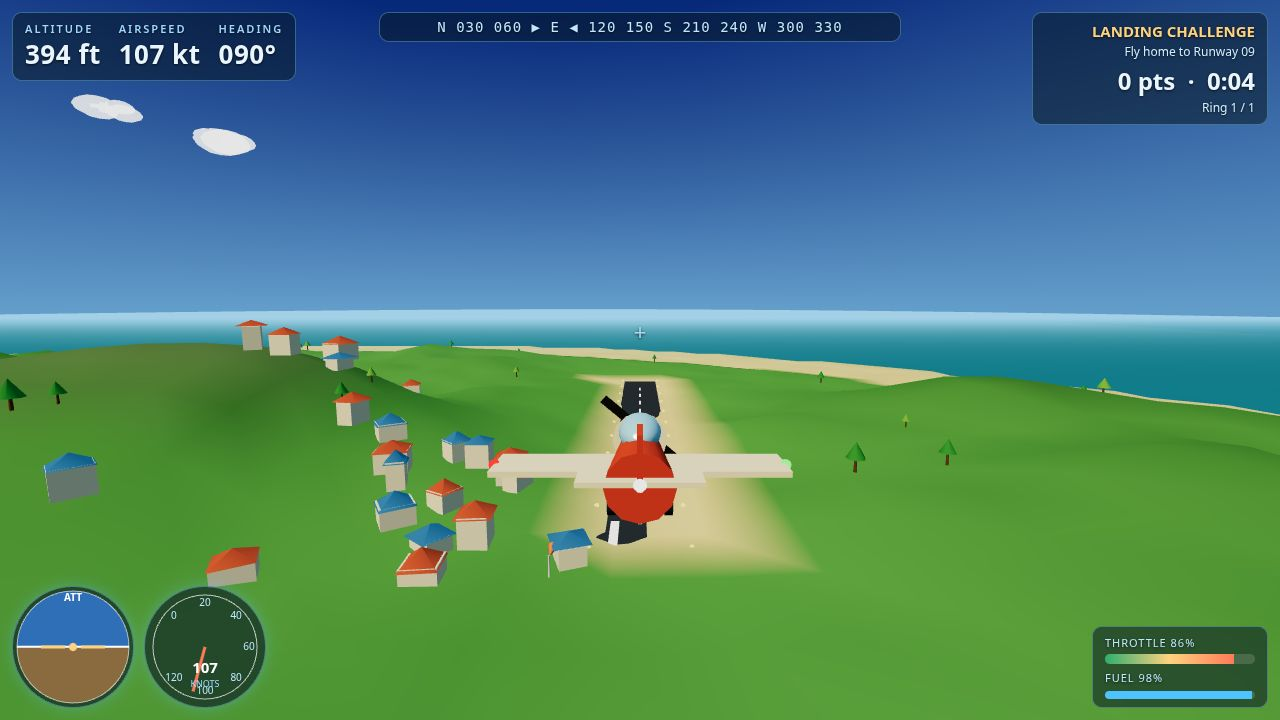
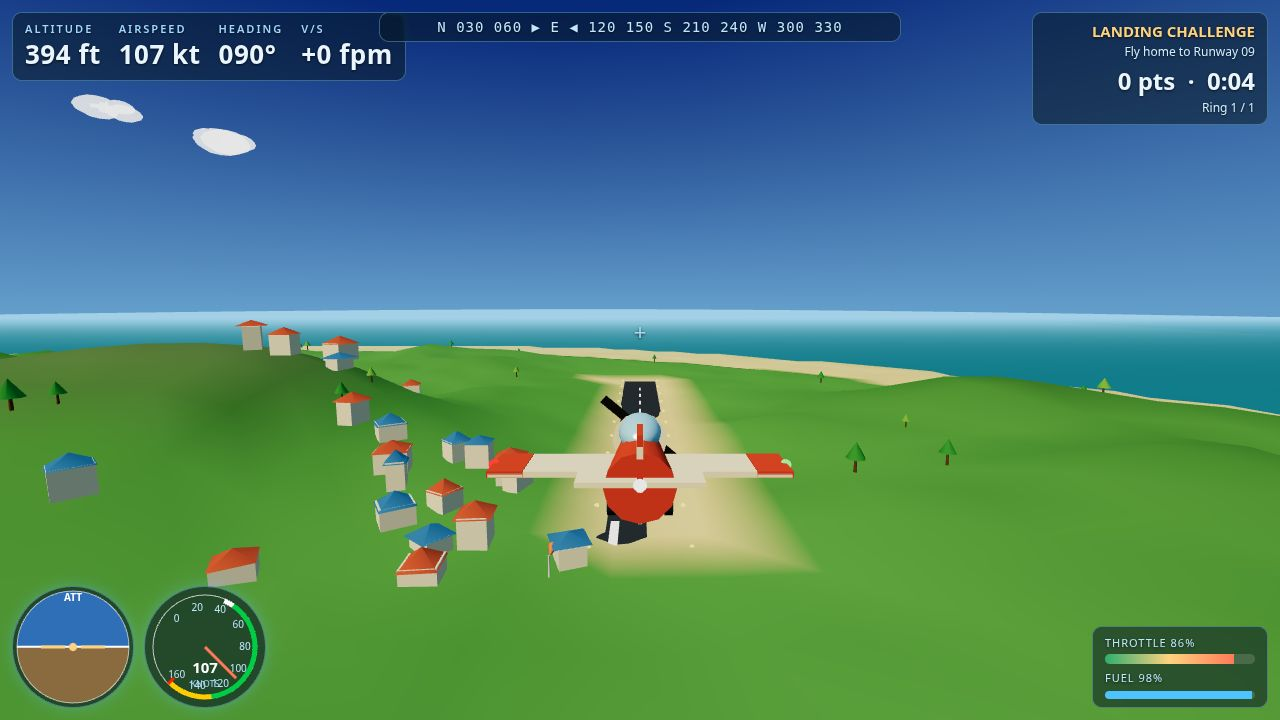
v3.1: pro-skill pass — instrument lag layer, tower camera, flap stall, hero paint, harbour boats
Instruments (aircraft-instruments skill): no display reads raw physics any
more. ASI lag 0.15 s, altimeter 1.5 s, attitude gyro 0.15 s, and a new V/S
readout driven by a 7 s-lag VSI pegged at +/-2000 fpm. The airspeed dial is
now a real ASI: 0-160 kt with white (flap range 40-85), green (normal
47-129) and yellow (caution 129-160) arcs and a red line at Vne. Staged
screenshots snap the instruments to the truth first, so the lag never
shows stale numbers in a still.

Flight model (flight-simulator skill): flaps now lower the stall speed
about 15% (24 -> ~20.4 m/s), the CLflap effect, so a slow final approach
with flaps down stays flying where the clean wing stalls. Verified: at
22 m/s the clean wing stalls, flaps down it does not.

Camera: a third view, Tower — fixed at the airfield, tracking the plane.
C cycles chase -> cockpit -> tower.

Hero + world (threejs-aaa-graphics-builder): red wingtip caps and a fin
stripe, so the Kitefin-9 reads as a painted aircraft from the chase view;
three sailboats anchored off the harbour on measured open-sea spots
(groundHeight -6), floating on the sea disc.

Retested: rally 8/8 (2810), tour 5/5 (2039), scripted touchdown wins
(1360), tower view verified in a live frame, VSI climbs from +0 to the
+2000 peg with the 7 s lag, 0 console/page/network errors.

diff --git a/game/src/hud.js b/game/src/hud.js
@@ -7,6 +7,7 @@ export function createHud() {
   const alt = document.getElementById('alt');
   const spd = document.getElementById('spd');
   const hdg = document.getElementById('hdg');
+  const vsiEl = document.getElementById('vsi');
   const warn = document.getElementById('warn');
   const strip = document.getElementById('compassStrip');
   const missionTitle = document.getElementById('missionTitle');
@@ -30,14 +31,25 @@ export function createHud() {
     if (message !== lastAnnounce) { lastAnnounce = message; status.textContent = message; }
   }
 
-  function drawAttitude(state) {
+  // Instrument layer: no display ever reads the physics state raw. Each
+  // gauge is a first-order lag filter over the true value, the way a real
+  // pitot-static or gyro instrument behaves — ASI is quick (0.15 s), the
+  // altimeter slow (1.5 s), the VSI the slowest of all (7 s), and the
+  // attitude ball follows the gyro with a short lag. Deterministic: the
+  // filter is a pure function of value and dt, no noise, so the staged
+  // screenshots stay reproducible.
+  const lag = (current, target, tau, dt) => current + (target - current) * (1 - Math.exp(-dt / tau));
+  let indAlt = 0; let indSpd = 0; let indPitch = 0; let indRoll = 0; let indVs = 0;
+  let prevAlt = null;
+
+  function drawAttitude(pitch, bank) {
     const w = 120; const h = 120; const cx = 60; const cy = 60;
     attCtx.clearRect(0, 0, w, h);
     attCtx.save();
     attCtx.beginPath(); attCtx.arc(cx, cy, 56, 0, Math.PI * 2); attCtx.clip();
     attCtx.translate(cx, cy);
-    attCtx.rotate(-state.bank);
-    attCtx.translate(0, state.pitch * 90);
+    attCtx.rotate(-bank);
+    attCtx.translate(0, pitch * 90);
     attCtx.fillStyle = '#2f6fb8'; attCtx.fillRect(-70, -90, 140, 90);
     attCtx.fillStyle = '#8a6a3f'; attCtx.fillRect(-70, 0, 140, 90);
     attCtx.strokeStyle = '#fff'; attCtx.lineWidth = 2;
@@ -54,22 +66,41 @@ export function createHud() {
     attCtx.textAlign = 'center'; attCtx.fillText('ATT', 60, 14);
   }
 
-  function drawDial(state) {
+  // Kitefin-9 V-speeds (knots): stall 24 m/s clean = 47 kt, flaps down
+  // 20.4 m/s = 40 kt, cruise 62 m/s = 120 kt, max 95 m/s = 184 kt.
+  const DIAL_MAX = 160;
+  const VSO = 40; const VS1 = 47; const VFE = 85; const VNO = 129; const VNE = 163;
+  function dialAngle(kt) { return -Math.PI * 0.75 + (Math.max(0, Math.min(DIAL_MAX, kt)) / DIAL_MAX) * Math.PI * 1.5; }
+  function drawDial(speedKt) {
     const w = 120; const h = 120; const cx = 60; const cy = 60;
     dialCtx.clearRect(0, 0, w, h);
     dialCtx.strokeStyle = 'rgba(255,255,255,.7)'; dialCtx.lineWidth = 1;
     dialCtx.beginPath(); dialCtx.arc(cx, cy, 52, 0, Math.PI * 2); dialCtx.stroke();
+    // Colour arcs, the signature of a real airspeed indicator: white is the
+    // flap range, green normal operation, yellow caution, red line at Vne.
+    const arc = (from, to, color) => {
+      dialCtx.strokeStyle = color; dialCtx.lineWidth = 5;
+      dialCtx.beginPath(); dialCtx.arc(cx, cy, 50, dialAngle(from), dialAngle(to)); dialCtx.stroke();
+    };
+    arc(VSO, VFE, '#ffffff');
+    arc(VS1, VNO, '#00cc44');
+    arc(VNO, DIAL_MAX, '#ffcc00');
+    const redA = dialAngle(DIAL_MAX);
+    dialCtx.strokeStyle = '#ff2200'; dialCtx.lineWidth = 3;
+    dialCtx.beginPath();
+    dialCtx.moveTo(cx + Math.cos(redA) * 44, cy + Math.sin(redA) * 44);
+    dialCtx.lineTo(cx + Math.cos(redA) * 52, cy + Math.sin(redA) * 52);
+    dialCtx.stroke();
     dialCtx.fillStyle = '#bfe9ff'; dialCtx.font = '10px system-ui'; dialCtx.textAlign = 'center';
-    for (let kt = 0; kt <= 120; kt += 20) {
-      const a = -Math.PI * 0.75 + (kt / 120) * Math.PI * 1.5;
-      const x = cx + Math.cos(a) * 44; const y = cy + Math.sin(a) * 44 + 3;
+    for (let kt = 0; kt <= DIAL_MAX; kt += 20) {
+      const a = dialAngle(kt);
+      const x = cx + Math.cos(a) * 40; const y = cy + Math.sin(a) * 40 + 3;
       dialCtx.fillText(String(kt), x, y);
     }
-    const speedKt = state.speed * 1.94;
-    const a = -Math.PI * 0.75 + (Math.min(120, speedKt) / 120) * Math.PI * 1.5;
+    const a = dialAngle(speedKt);
     dialCtx.strokeStyle = '#ff7a59'; dialCtx.lineWidth = 3;
     dialCtx.beginPath(); dialCtx.moveTo(cx, cy);
-    dialCtx.lineTo(cx + Math.cos(a) * 46, cy + Math.sin(a) * 46); dialCtx.stroke();
+    dialCtx.lineTo(cx + Math.cos(a) * 44, cy + Math.sin(a) * 44); dialCtx.stroke();
     dialCtx.fillStyle = '#fff'; dialCtx.font = 'bold 15px system-ui';
     dialCtx.fillText(`${Math.round(speedKt)}`, cx, cy + 26);
     dialCtx.font = '9px system-ui'; dialCtx.fillStyle = '#9fd8ff';
@@ -82,9 +113,33 @@ export function createHud() {
     return marks.map((m, i) => (i === idx ? `▶ ${m} ◀` : m)).join('  ');
   }
 
-  function update(state) {
-    alt.textContent = String(Math.max(0, Math.round(state.y * 3.28)));
-    spd.textContent = String(Math.round(state.speed * 1.94));
+  // Snap every indicated value to the truth at once: staged screenshots
+  // paint only six frames, far too few for the lag filters to settle, so
+  // the shot staging calls this before painting.
+  function snap(state) {
+    indAlt = state.y * 3.28;
+    indSpd = state.speed * 1.94;
+    indPitch = state.pitch;
+    indRoll = state.bank;
+    indVs = 0;
+    prevAlt = state.y;
+  }
+
+  function update(state, dt = 1 / 60) {
+    const safeDt = dt > 0 ? dt : 1 / 60;
+    indAlt = lag(indAlt, state.y * 3.28, 1.5, safeDt);
+    indSpd = lag(indSpd, state.speed * 1.94, 0.15, safeDt);
+    indPitch = lag(indPitch, state.pitch, 0.15, safeDt);
+    indRoll = lag(indRoll, state.bank, 0.15, safeDt);
+    const trueVs = prevAlt === null ? 0 : ((state.y - prevAlt) / safeDt) * 196.85;
+    indVs = lag(indVs, trueVs, 7, safeDt);
+    // A real VSI pegs at its dial limit (±2000 fpm); it never reads 7000.
+    indVs = Math.max(-2000, Math.min(2000, indVs));
+    prevAlt = state.y;
+    alt.textContent = String(Math.max(0, Math.round(indAlt)));
+    spd.textContent = String(Math.round(indSpd));
+    const vsRounded = Math.round(indVs);
+    vsiEl.textContent = `${vsRounded >= 0 ? '+' : ''}${vsRounded}`;
     const deg = headingDegrees(state.heading);
     hdg.textContent = String(deg).padStart(3, '0');
     strip.textContent = compassText(deg);
@@ -104,8 +159,8 @@ export function createHud() {
     if (state.fuel <= 0) warnings.push('FUEL EMPTY — GLIDING');
     if (state.crashed) warnings.push(state.crashReason);
     warn.textContent = warnings.join('  ·  ');
-    drawAttitude(state);
-    drawDial(state);
+    drawAttitude(indPitch, indRoll);
+    drawDial(indSpd);
     announce(`Altitude ${alt.textContent} feet, speed ${spd.textContent} knots, heading ${hdg.textContent}. Score ${state.score}.`);
   }
 
@@ -115,5 +170,5 @@ export function createHud() {
   }
   function hideBanner() { banner.style.display = 'none'; }
 
-  return { update, showBanner, hideBanner };
+  return { update, snap, showBanner, hideBanner };
 }

diff --git a/game/src/render.js b/game/src/render.js
@@ -7,6 +7,7 @@ import { buildAircraft } from './aircraft.js';
 
 export const CAMERA_CHASE = 'chase';
 export const CAMERA_COCKPIT = 'cockpit';
+export const CAMERA_TOWER = 'tower';
 
 export function createRenderer(canvas, seed) {
   const renderer = new THREE.WebGLRenderer({ canvas, antialias: true });
@@ -132,14 +133,21 @@ export function createRenderer(canvas, seed) {
 
   // Chase camera: behind and above the tail, smoothed, widening with speed.
   // Cockpit camera: at the canopy, looking down the nose.
+  // Tower camera: fixed at the airfield, tracking the plane like a spotter.
   const camPos = new THREE.Vector3();
   const camTarget = new THREE.Vector3();
+  const towerPos = new THREE.Vector3(RUNWAY.x - 330, 55, RUNWAY.z - 170);
   let cameraMode = CAMERA_CHASE;
   function updateCamera(state, dt) {
     const heading = state.heading;
     const fx = Math.sin(heading); const fz = -Math.cos(heading);
     const px = Math.sin(state.pitch);
-    if (cameraMode === CAMERA_COCKPIT) {
+    if (cameraMode === CAMERA_TOWER) {
+      camera.position.copy(towerPos);
+      camera.lookAt(state.x, state.y, state.z);
+      camera.fov = 55;
+      camera.updateProjectionMatrix();
+    } else if (cameraMode === CAMERA_COCKPIT) {
       // At the nose, just ahead of the canopy, looking down the flight path.
       camPos.set(
         state.x + fx * 4.5, state.y + 1.1,
@@ -203,7 +211,11 @@ export function createRenderer(canvas, seed) {
 
   return {
     draw, resize, setCourse, island, snapCamera,
-    toggleCamera() { cameraMode = cameraMode === CAMERA_CHASE ? CAMERA_COCKPIT : CAMERA_CHASE; return cameraMode; },
+    toggleCamera() {
+      cameraMode = cameraMode === CAMERA_CHASE ? CAMERA_COCKPIT
+        : cameraMode === CAMERA_COCKPIT ? CAMERA_TOWER : CAMERA_CHASE;
+      return cameraMode;
+    },
     cameraMode() { return cameraMode; },
     setCameraMode(mode) { cameraMode = mode; },
   };

diff --git a/game/src/main.js b/game/src/main.js
@@ -80,12 +80,15 @@ function runShot(name) {
   menu.style.display = 'none';
   const scene = stageShot(name, flight, renderer);
   void scene;
+  // Snap the instruments to the staged state first: the lag filters would
+  // need seconds of frames to settle, and the shot paints only six.
+  hud.snap(flight.state);
   // Paint a few frames so the camera smoothing and the HUD settle on the staged
   // scene before the screenshot is taken.
   let painted = 0;
   function paint() {
     renderer.draw(flight.state, flight.state.time || 1, STEP);
-    hud.update(flight.state);
+    hud.update(flight.state, STEP);
     painted += 1;
     if (painted < 6) requestAnimationFrame(paint);
     else window.__shotReady = true;
@@ -104,7 +107,7 @@ function runGame() {
     if (actions & ACTION_MUTE) { muted = sound.toggleMute(); announce(muted ? 'Sound off.' : 'Sound on.'); }
     if (actions & ACTION_CAMERA && screen === 'play') {
       const mode = renderer.toggleCamera();
-      announce(mode === 'cockpit' ? 'Cockpit view.' : 'Chase view.');
+      announce(mode === 'cockpit' ? 'Cockpit view.' : mode === 'tower' ? 'Tower view.' : 'Chase view.');
     }
     if (actions & ACTION_FLAPS && screen === 'play') {
       flight.state.flaps = !flight.state.flaps;
@@ -148,14 +151,14 @@ function runGame() {
     }
     if (screen !== 'title') {
       renderer.draw(flight.state, flight.state.time, frameDt);
-      hud.update(flight.state);
+      hud.update(flight.state, frameDt);
     } else {
       // Title screen: the parked plane on the strip, town behind it. The HUD
       // updates here too, or the instruments sit dead at 0 ft / 0 kt / 000°
       // with black dials until the first mission starts.
       flight.state.time += STEP;
       renderer.draw(flight.state, flight.state.time, frameDt);
-      hud.update(flight.state);
+      hud.update(flight.state, frameDt);
     }
   }
 

diff --git a/game/src/terrain.js b/game/src/terrain.js
@@ -133,6 +133,7 @@ export function buildTerrain(scene, island, rand) {
   buildTown(group, island, rand);
   buildTrees(group, island, rand);
   buildLighthouse(group, island);
+  buildBoats(group);
   buildClouds(group, rand);
   scene.add(group);
   return group;
@@ -229,6 +230,43 @@ function buildTrees(group, island, rand) {
     trees.add(crown);
   }
   group.add(trees);
+}
+
+// Three little sailboats anchored off the harbour. Their spots were
+// measured, not guessed: groundHeight there is -6 (open sea), so the hulls
+// float on the sea disc at SEA_Y instead of sitting on the beach.
+function buildBoats(group) {
+  const spots = [
+    { x: -1000, z: 1150, heading: 0.6, sail: PALETTE.planeRed },
+    { x: -900, z: 1280, heading: -0.9, sail: 0xf2e8d5 },
+    { x: -1120, z: 1250, heading: 2.4, sail: PALETTE.ringIdle },
+  ];
+  for (const s of spots) {
+    const boat = new THREE.Group();
+    const hull = new THREE.Mesh(
+      new THREE.BoxGeometry(3.2, 1.1, 8),
+      new THREE.MeshLambertMaterial({ color: 0x8a5a2e }),
+    );
+    hull.position.y = 0.4;
+    boat.add(hull);
+    const mast = new THREE.Mesh(
+      new THREE.CylinderGeometry(0.12, 0.12, 7, 6),
+      new THREE.MeshLambertMaterial({ color: 0x5a3a1e }),
+    );
+    mast.position.y = 4.2;
+    boat.add(mast);
+    const sailShape = new THREE.Shape();
+    sailShape.moveTo(0, 0); sailShape.lineTo(0, 6.2); sailShape.lineTo(3.4, 0.4); sailShape.lineTo(0, 0);
+    const sail = new THREE.Mesh(
+      new THREE.ShapeGeometry(sailShape),
+      new THREE.MeshLambertMaterial({ color: s.sail, side: THREE.DoubleSide }),
+    );
+    sail.position.set(0.2, 1.4, 0.4);
+    boat.add(sail);
+    boat.position.set(s.x, SEA_Y, s.z);
+    boat.rotation.y = s.heading;
+    group.add(boat);
+  }
 }
 
 function buildLighthouse(group, island) {

diff --git a/game/src/flight.js b/game/src/flight.js
@@ -76,7 +76,10 @@ export function createFlight(island, missionId) {
     let accel = (targetSpeed - state.speed) * 0.35;
     accel += -Math.sin(state.pitch) * 9 * dt * 60 * 0.016;
     state.speed = clamp(state.speed + accel * dt, 0, PLANE.maxSpeed);
-    state.stalled = !state.onGround && state.speed < PLANE.minFlySpeed;
+    // Flaps add lift (CLflap): the wing keeps flying about 15% slower with
+    // them down, which is what makes a slow, steep final approach possible.
+    const minFly = PLANE.minFlySpeed * (state.flaps ? 0.85 : 1);
+    state.stalled = !state.onGround && state.speed < minFly;
 
     // Attitude: stick moves pitch and bank toward the commanded values.
     const pitchTarget = clamp(input.pitch, -1, 1) * 0.5;
@@ -90,7 +93,7 @@ export function createFlight(island, missionId) {
     // Climb and sink: pitch trades speed for height; flaps add lift low and slow.
     const lift = state.onGround ? 0 : Math.sin(state.pitch) * state.speed * PLANE.climbFromPitch;
     const sink = state.stalled ? -14 : -1.2;
-    let vertical = lift + (state.speed < PLANE.minFlySpeed && !state.onGround ? sink : 0);
+    let vertical = lift + (state.speed < minFly && !state.onGround ? sink : 0);
     if (state.flaps && state.speed > 18) vertical += 1.5;
 
     // Move.

diff --git a/game/src/aircraft.js b/game/src/aircraft.js
@@ -27,12 +27,22 @@ export function buildAircraft() {
   const wing = new THREE.Mesh(new THREE.BoxGeometry(13.5, 0.28, 2.6), cream);
   wing.position.set(0, -0.1, 0.4);
   plane.add(wing);
+  // Red wingtip caps and a fin stripe: the paint scheme, so the wing reads
+  // as an authored surface from the chase view instead of one flat slab.
+  for (const side of [-1, 1]) {
+    const cap = new THREE.Mesh(new THREE.BoxGeometry(1.6, 0.3, 2.6), red);
+    cap.position.set(side * 6.0, -0.1, 0.4);
+    plane.add(cap);
+  }
   const tailWing = new THREE.Mesh(new THREE.BoxGeometry(5.2, 0.22, 1.5), cream);
   tailWing.position.set(0, 0.35, 3.4);
   plane.add(tailWing);
   const fin = new THREE.Mesh(new THREE.BoxGeometry(0.24, 2.4, 1.8), red);
   fin.position.set(0, 1.2, 3.4);
   plane.add(fin);
+  const finStripe = new THREE.Mesh(new THREE.BoxGeometry(0.26, 0.5, 1.8), cream);
+  finStripe.position.set(0, 1.7, 3.4);
+  plane.add(finStripe);
   // Wingtip nav lights: red port, green starboard, white tail.
   const tipGeo = new THREE.SphereGeometry(0.28, 8, 6);
   const port = new THREE.Mesh(tipGeo, new THREE.MeshBasicMaterial({ color: 0xff2a2a }));

diff --git a/game/index.html b/game/index.html
@@ -67,6 +67,7 @@
     <div class="big"><small>ALTITUDE</small><span id="alt">0</span> ft</div>
     <div class="big"><small>AIRSPEED</small><span id="spd">0</span> kt</div>
     <div class="big"><small>HEADING</small><span id="hdg">000</span>&deg;</div>
+    <div class="big"><small>V/S</small><span id="vsi">+0</span> fpm</div>
   </div><div id="warn" class="warn"></div></div>
   <div id="compass" class="panel"><div class="strip" id="compassStrip">N &nbsp; 030 &nbsp; 060 &nbsp; E &nbsp; 120 &nbsp; 150 &nbsp; S &nbsp; 210 &nbsp; 240 &nbsp; W &nbsp; 300 &nbsp; 330</div></div>
   <div id="mission" class="panel"><div class="title" id="missionTitle">RING RALLY</div>
